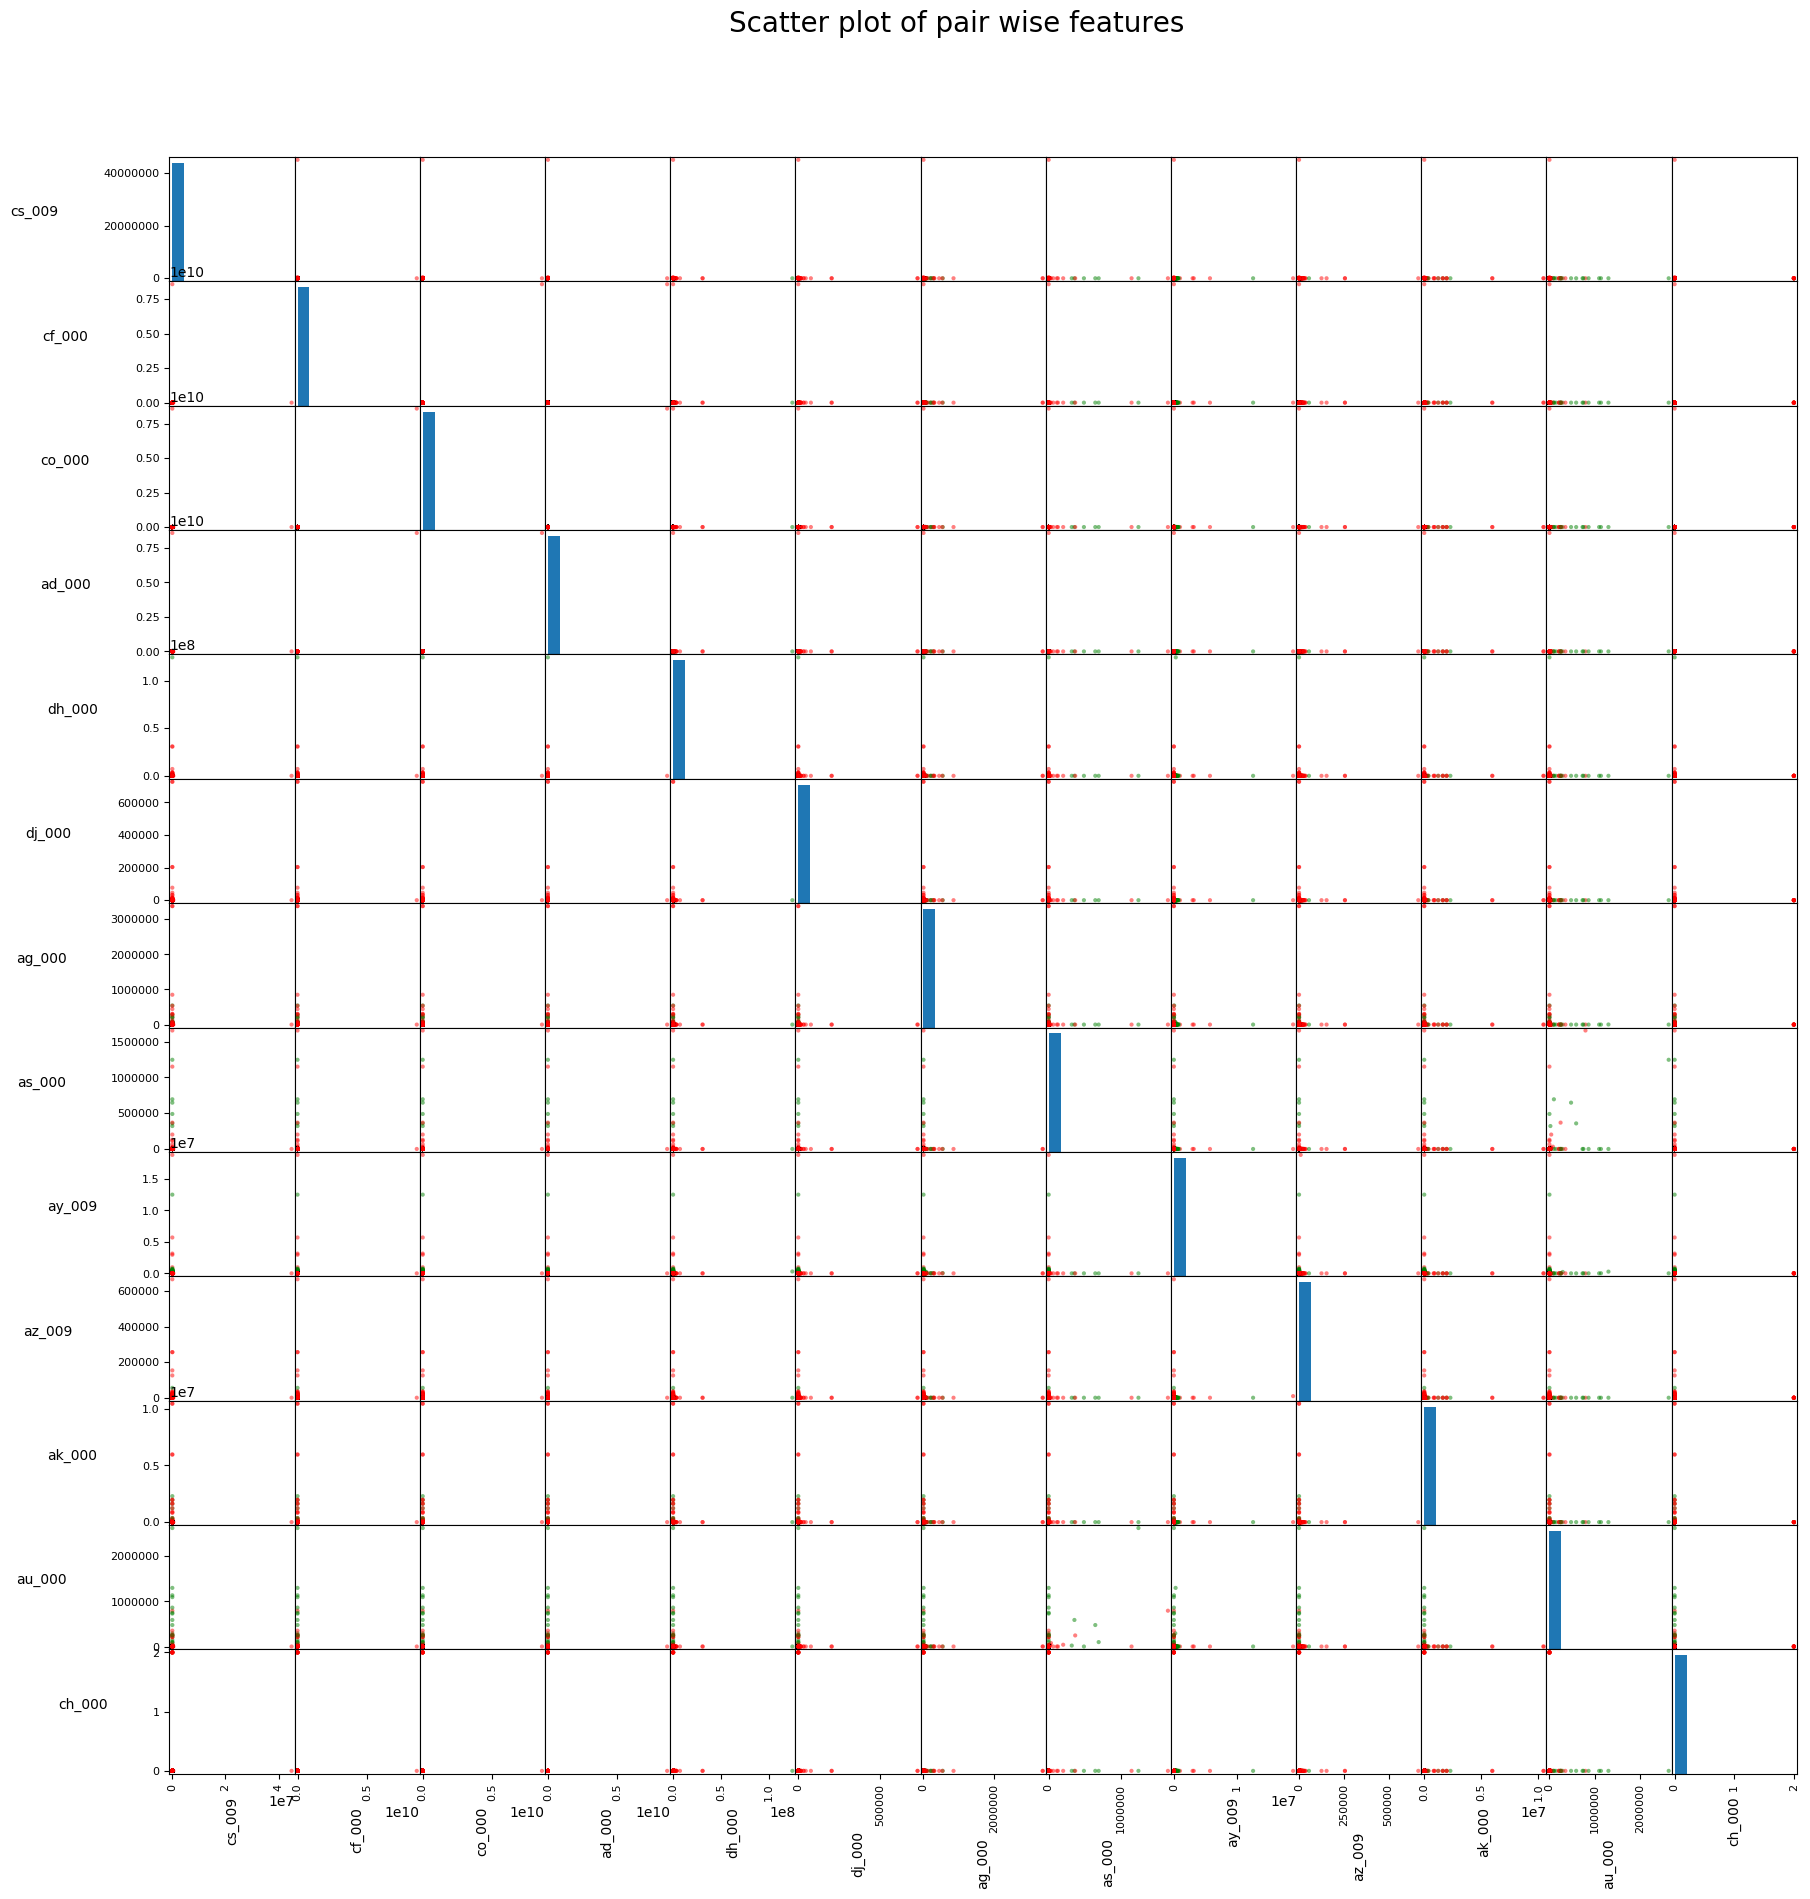
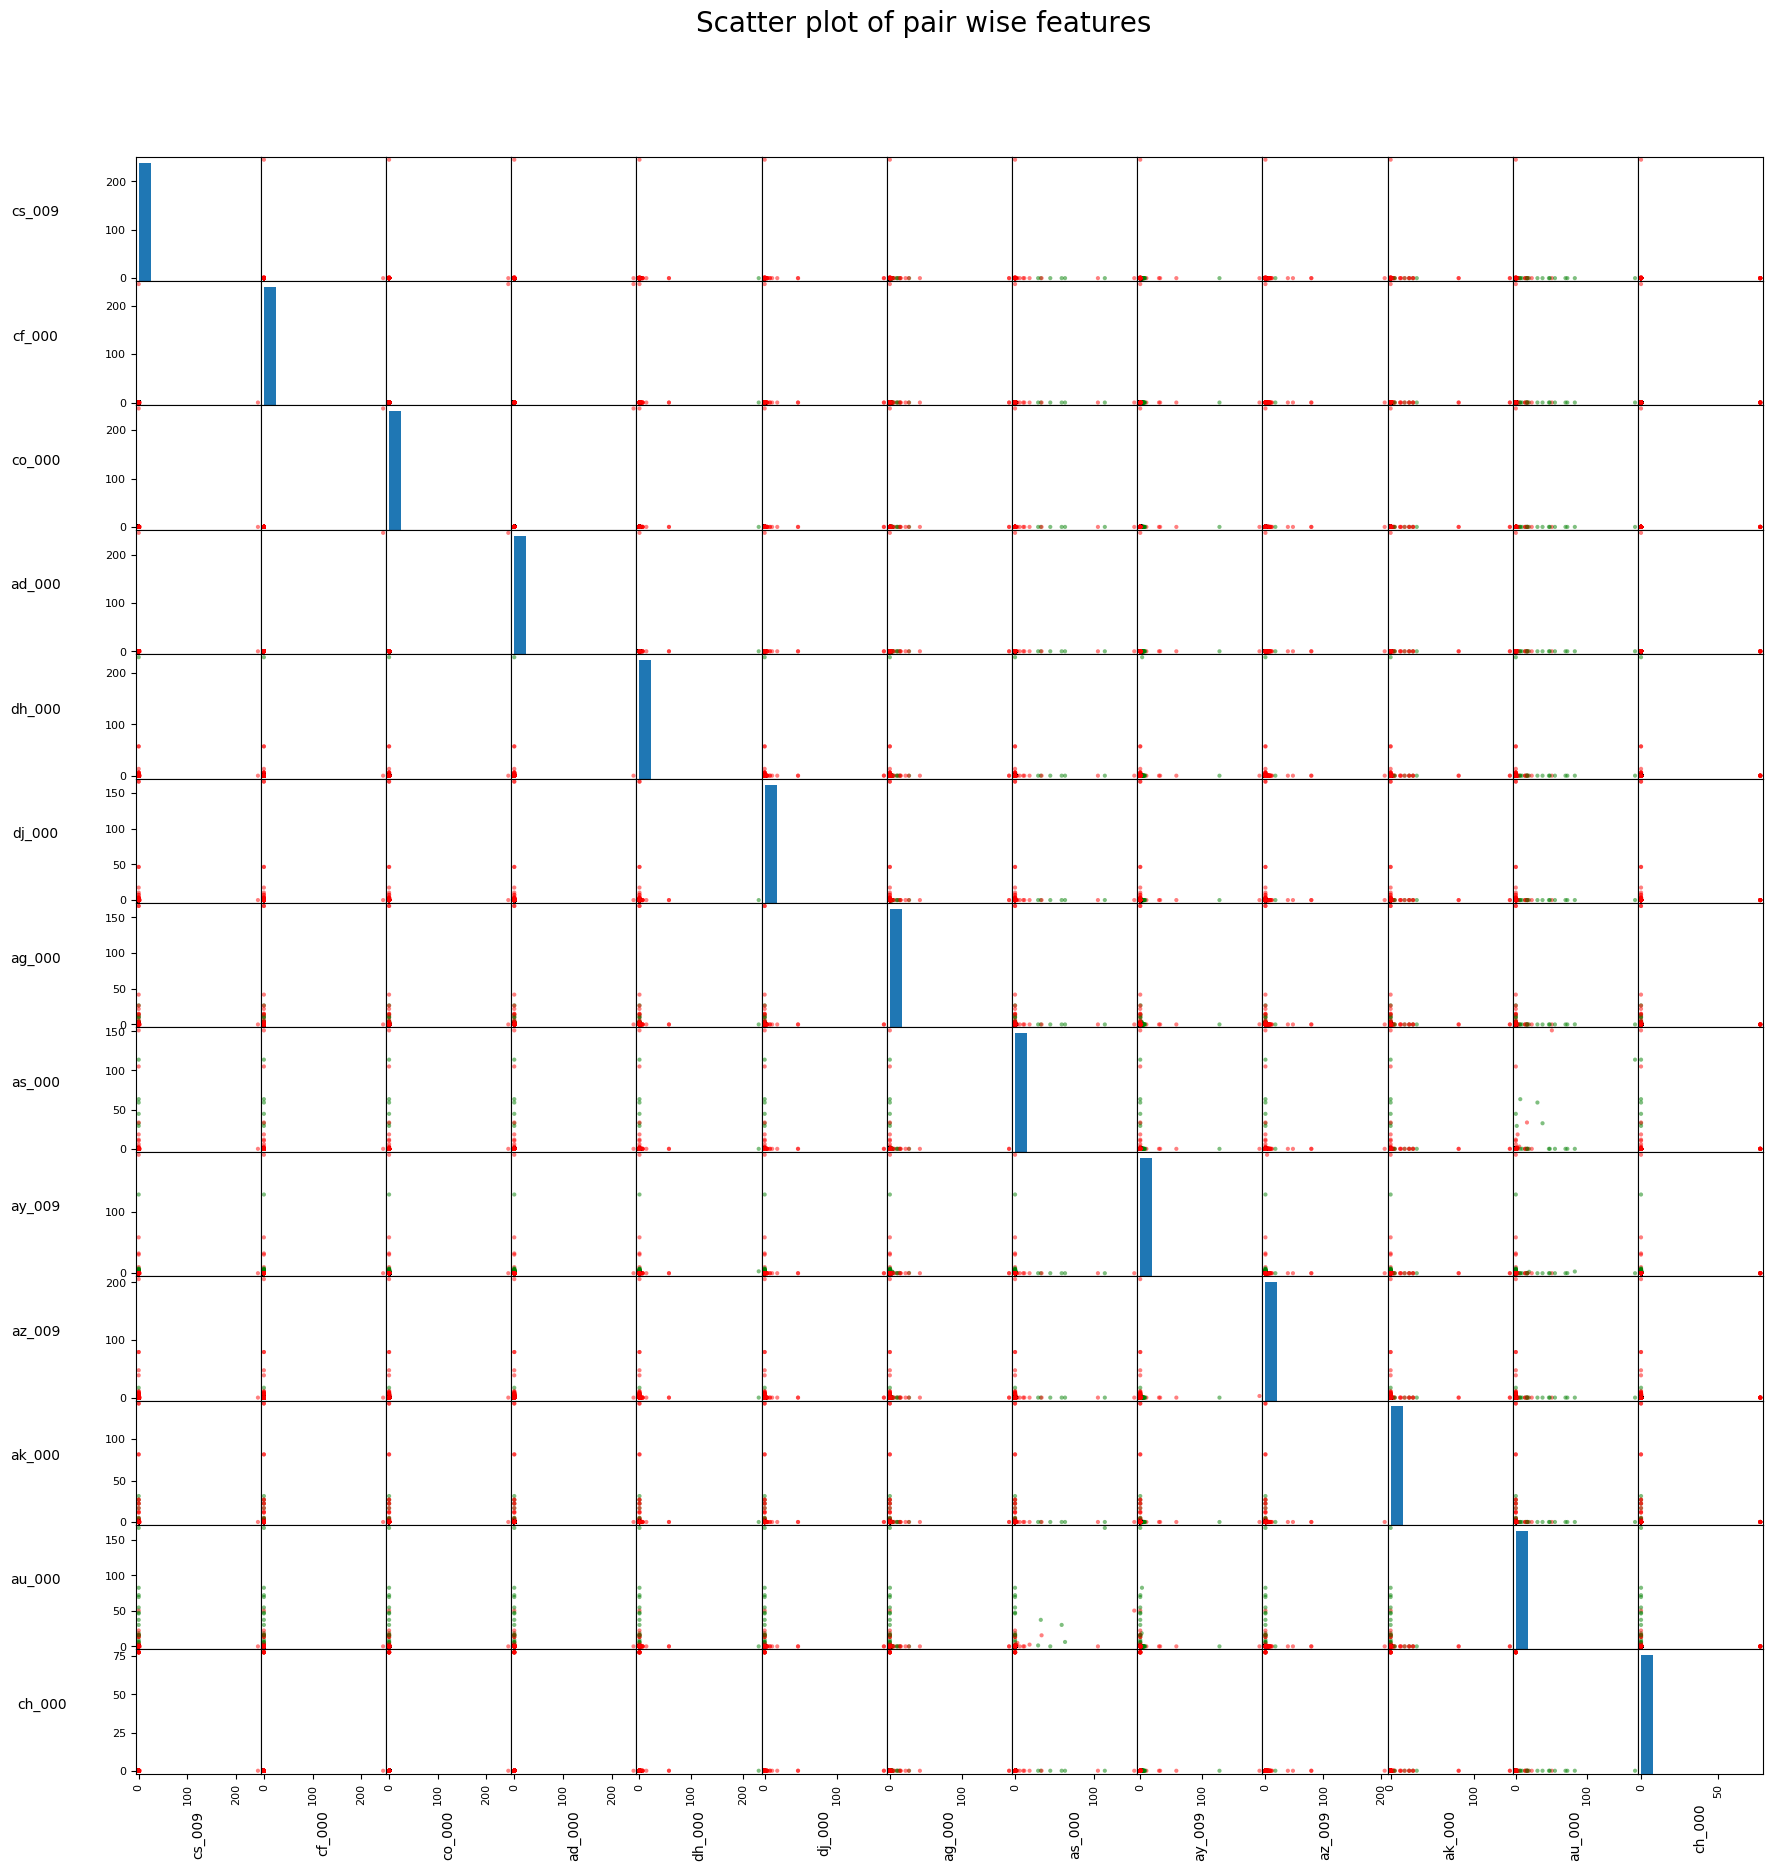
scaled data plots

diff --git a/2.py b/2.py
@@ -6,6 +6,7 @@ from sklearn.metrics import accuracy_score, confusion_matrix, roc_curve, auc
 import weka.core.jvm as jvm
 import itertools
 from pandas.plotting import scatter_matrix
+from sklearn.preprocessing import scale
 ##################################################### Common Functions #################################################
 def read_data():
     train_data = pd.read_csv("aps_failure_training_set.csv", skip_blank_lines=False)
@@ -129,6 +130,8 @@ def b_iv_plots():
     Y = train_data[response_var]
     fig = plt.figure(figsize=(20, 10))
     box_plot_data = train_data[top_cvs.index]
+    box_plot_data = scale(box_plot_data)
+    box_plot_data = pd.DataFrame(box_plot_data, columns=top_cvs.index.values)
     plt.boxplot(box_plot_data.as_matrix(), labels=top_cvs.index.values)
     plt.suptitle("Box Plots of top 13 Features",fontsize=20, y=0.95)
     plt.savefig("./plots/2_e_boxplot.png", bbox_inches='tight')
